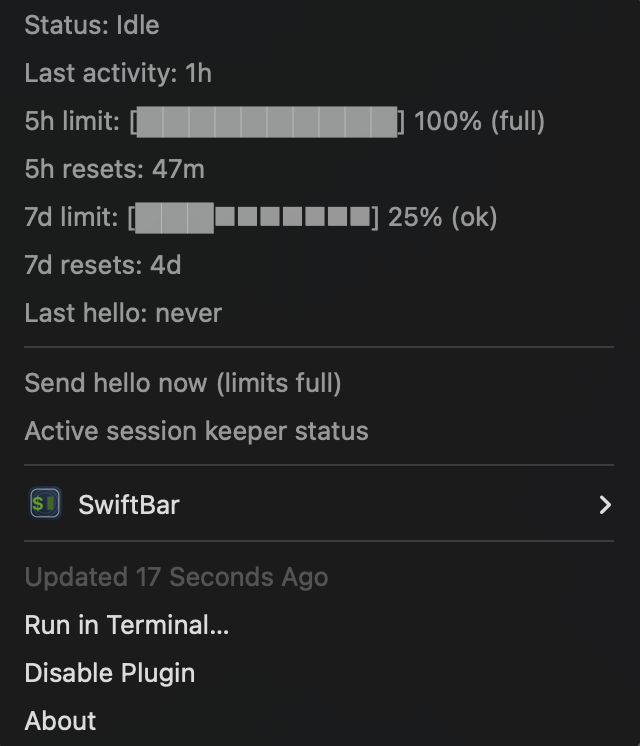
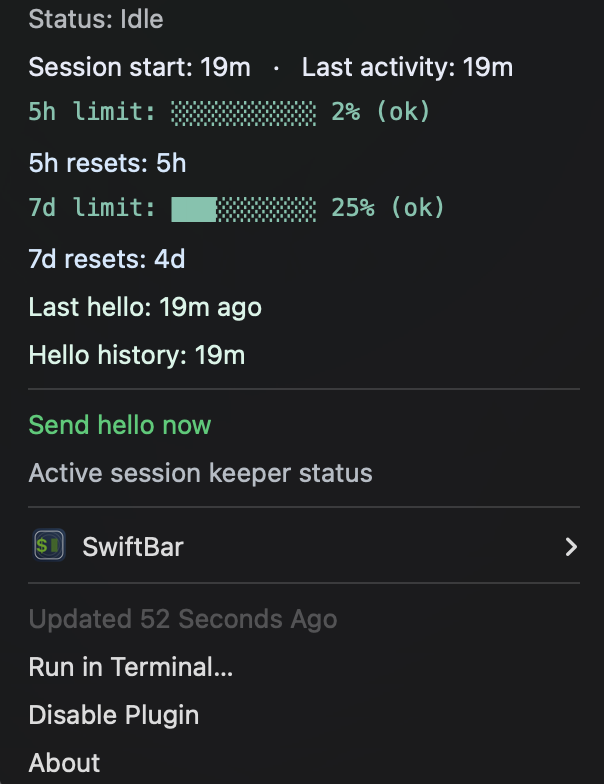
Refresh menu UI styling and screenshot

Changed region(s): [[0.0298, 0.0, 0.9536, 0.9249], [0.0298, 0.9558, 0.1788, 0.9866], [0.7748, 0.0617, 0.8642, 0.1233]]

diff --git a/macos/claude-session.1m.js b/macos/claude-session.1m.js
@@ -31,6 +31,19 @@ function menuLine(text) {
   console.log(text);
 }
 
+function pickColorByPercent(percent) {
+  const clamped = clampPercent(percent);
+  if (clamped === null) return '#9CA3AF'; // gray
+  if (clamped >= 90) return '#EF4444'; // red
+  if (clamped >= 70) return '#F59E0B'; // amber
+  return '#10B981'; // emerald
+}
+
+function pickStatusColor(isActive, limitsOk) {
+  if (!limitsOk) return '#EF4444';
+  return isActive ? '#10B981' : '#9CA3AF';
+}
+
 function clampPercent(value) {
   if (typeof value !== 'number' || !Number.isFinite(value)) return null;
   return Math.max(0, Math.min(100, value));
@@ -41,7 +54,7 @@ function progressBar(percent, width = 10) {
   if (clamped === null) return 'n/a';
   const filled = Math.round((clamped / 100) * width);
   const empty = Math.max(0, width - filled);
-  return `[${'█'.repeat(filled)}${'░'.repeat(empty)}] ${Math.round(clamped)}%`;
+  return `${'█'.repeat(filled)}${'░'.repeat(empty)} ${Math.round(clamped)}%`;
 }
 
 function formatResetTime(value) {
@@ -88,59 +101,67 @@ async function main() {
   const activeWindowMs = config.activeMinutes * 60 * 1000;
   const isActive = !!(lastActivity && now - lastActivity <= activeWindowMs);
 
-  let header = 'Claude: Idle';
-  if (isActive) header = 'Claude: Active';
-  if (!limits) header = 'Claude: Limits Unknown';
+  let header = 'Claude · Idle';
+  if (isActive) header = 'Claude · Active';
+  if (!limits) header = 'Claude · Limits Unknown';
 
   const fiveUtil = limits?.five_hour?.utilization;
   const fiveClamped = clampPercent(fiveUtil);
   if (fiveClamped !== null && fiveClamped >= 100) {
-    header = `${header} (Limit)`;
+    header = `${header} · Limit`;
   }
   const limitsOk =
     limits && limitOk(limits.five_hour) && limitOk(limits.seven_day);
+  const statusColor = pickStatusColor(isActive, limitsOk);
 
-  menuLine(header);
+  menuLine(`${header} | color=${statusColor} font=SF Pro Text size=12`);
   menuLine('---');
-  menuLine(`Status: ${isActive ? 'Active' : 'Idle'}`);
-  menuLine(`Last activity: ${formatAge(lastActivity)}`);
-  menuLine(`Session start: ${formatAge(sessionStart)}`);
+  menuLine(`Status: ${isActive ? 'Active' : 'Idle'} | color=${statusColor}`);
+  menuLine(
+    `Session start: ${formatAge(sessionStart)}   ·   Last activity: ${formatAge(
+      lastActivity
+    )} | color=#CBD5F5`
+  );
 
   if (limits) {
     const seven = limits.seven_day?.utilization;
     const fiveReset = limits.five_hour?.resets_at;
     const sevenReset = limits.seven_day?.resets_at;
+    const fiveColor = pickColorByPercent(fiveUtil);
+    const sevenColor = pickColorByPercent(seven);
     menuLine(
-      `5h limit: ${progressBar(fiveUtil)} (${limitOk(limits.five_hour) ? 'ok' : 'full'})`
+      `5h limit: ${progressBar(fiveUtil)} (${limitOk(limits.five_hour) ? 'ok' : 'full'}) | color=${fiveColor} font=Menlo`
     );
-    menuLine(`5h resets: ${formatResetTime(fiveReset)}`);
+    menuLine(`5h resets: ${formatResetTime(fiveReset)} | color=#93C5FD`);
     menuLine(
-      `7d limit: ${progressBar(seven)} (${limitOk(limits.seven_day) ? 'ok' : 'full'})`
+      `7d limit: ${progressBar(seven)} (${limitOk(limits.seven_day) ? 'ok' : 'full'}) | color=${sevenColor} font=Menlo`
     );
-    menuLine(`7d resets: ${formatResetTime(sevenReset)}`);
+    menuLine(`7d resets: ${formatResetTime(sevenReset)} | color=#93C5FD`);
   } else {
-    menuLine('5h limit: n/a');
-    menuLine('7d limit: n/a');
+    menuLine('5h limit: n/a | color=#9CA3AF');
+    menuLine('7d limit: n/a | color=#9CA3AF');
   }
 
   if (state?.lastLaunch) {
-    menuLine(`Last hello: ${formatAge(state.lastLaunch)} ago`);
+    menuLine(`Last hello: ${formatAge(state.lastLaunch)} ago | color=#A7F3D0`);
   } else {
-    menuLine('Last hello: never');
+    menuLine('Last hello: never | color=#A7F3D0');
   }
-  menuLine(`Hello history: ${formatHistory(state?.history, state?.lastLaunch)}`);
+  menuLine(
+    `Hello history: ${formatHistory(state?.history, state?.lastLaunch)} | color=#A7F3D0`
+  );
 
   menuLine('---');
   if (limitsOk && keeperPath) {
     menuLine(
-      `Send hello now | bash=/usr/bin/env param1=node param2=${keeperPath} param3=--once param4=--active-minutes=0 param5=--cooldown-minutes=0 terminal=false refresh=true`
+      `Send hello now | color=#22C55E bash=/usr/bin/env param1=node param2=${keeperPath} param3=--once param4=--active-minutes=0 param5=--cooldown-minutes=0 terminal=false refresh=true`
     );
   } else if (!keeperPath) {
     menuLine('Send hello now (set KEEPALIVE_PATH) | disabled=true');
   } else {
     menuLine('Send hello now (limits full) | disabled=true');
   }
-  menuLine('Active session keeper status');
+  menuLine('Active session keeper status | color=#94A3B8');
 }
 
 main().catch(() => {
